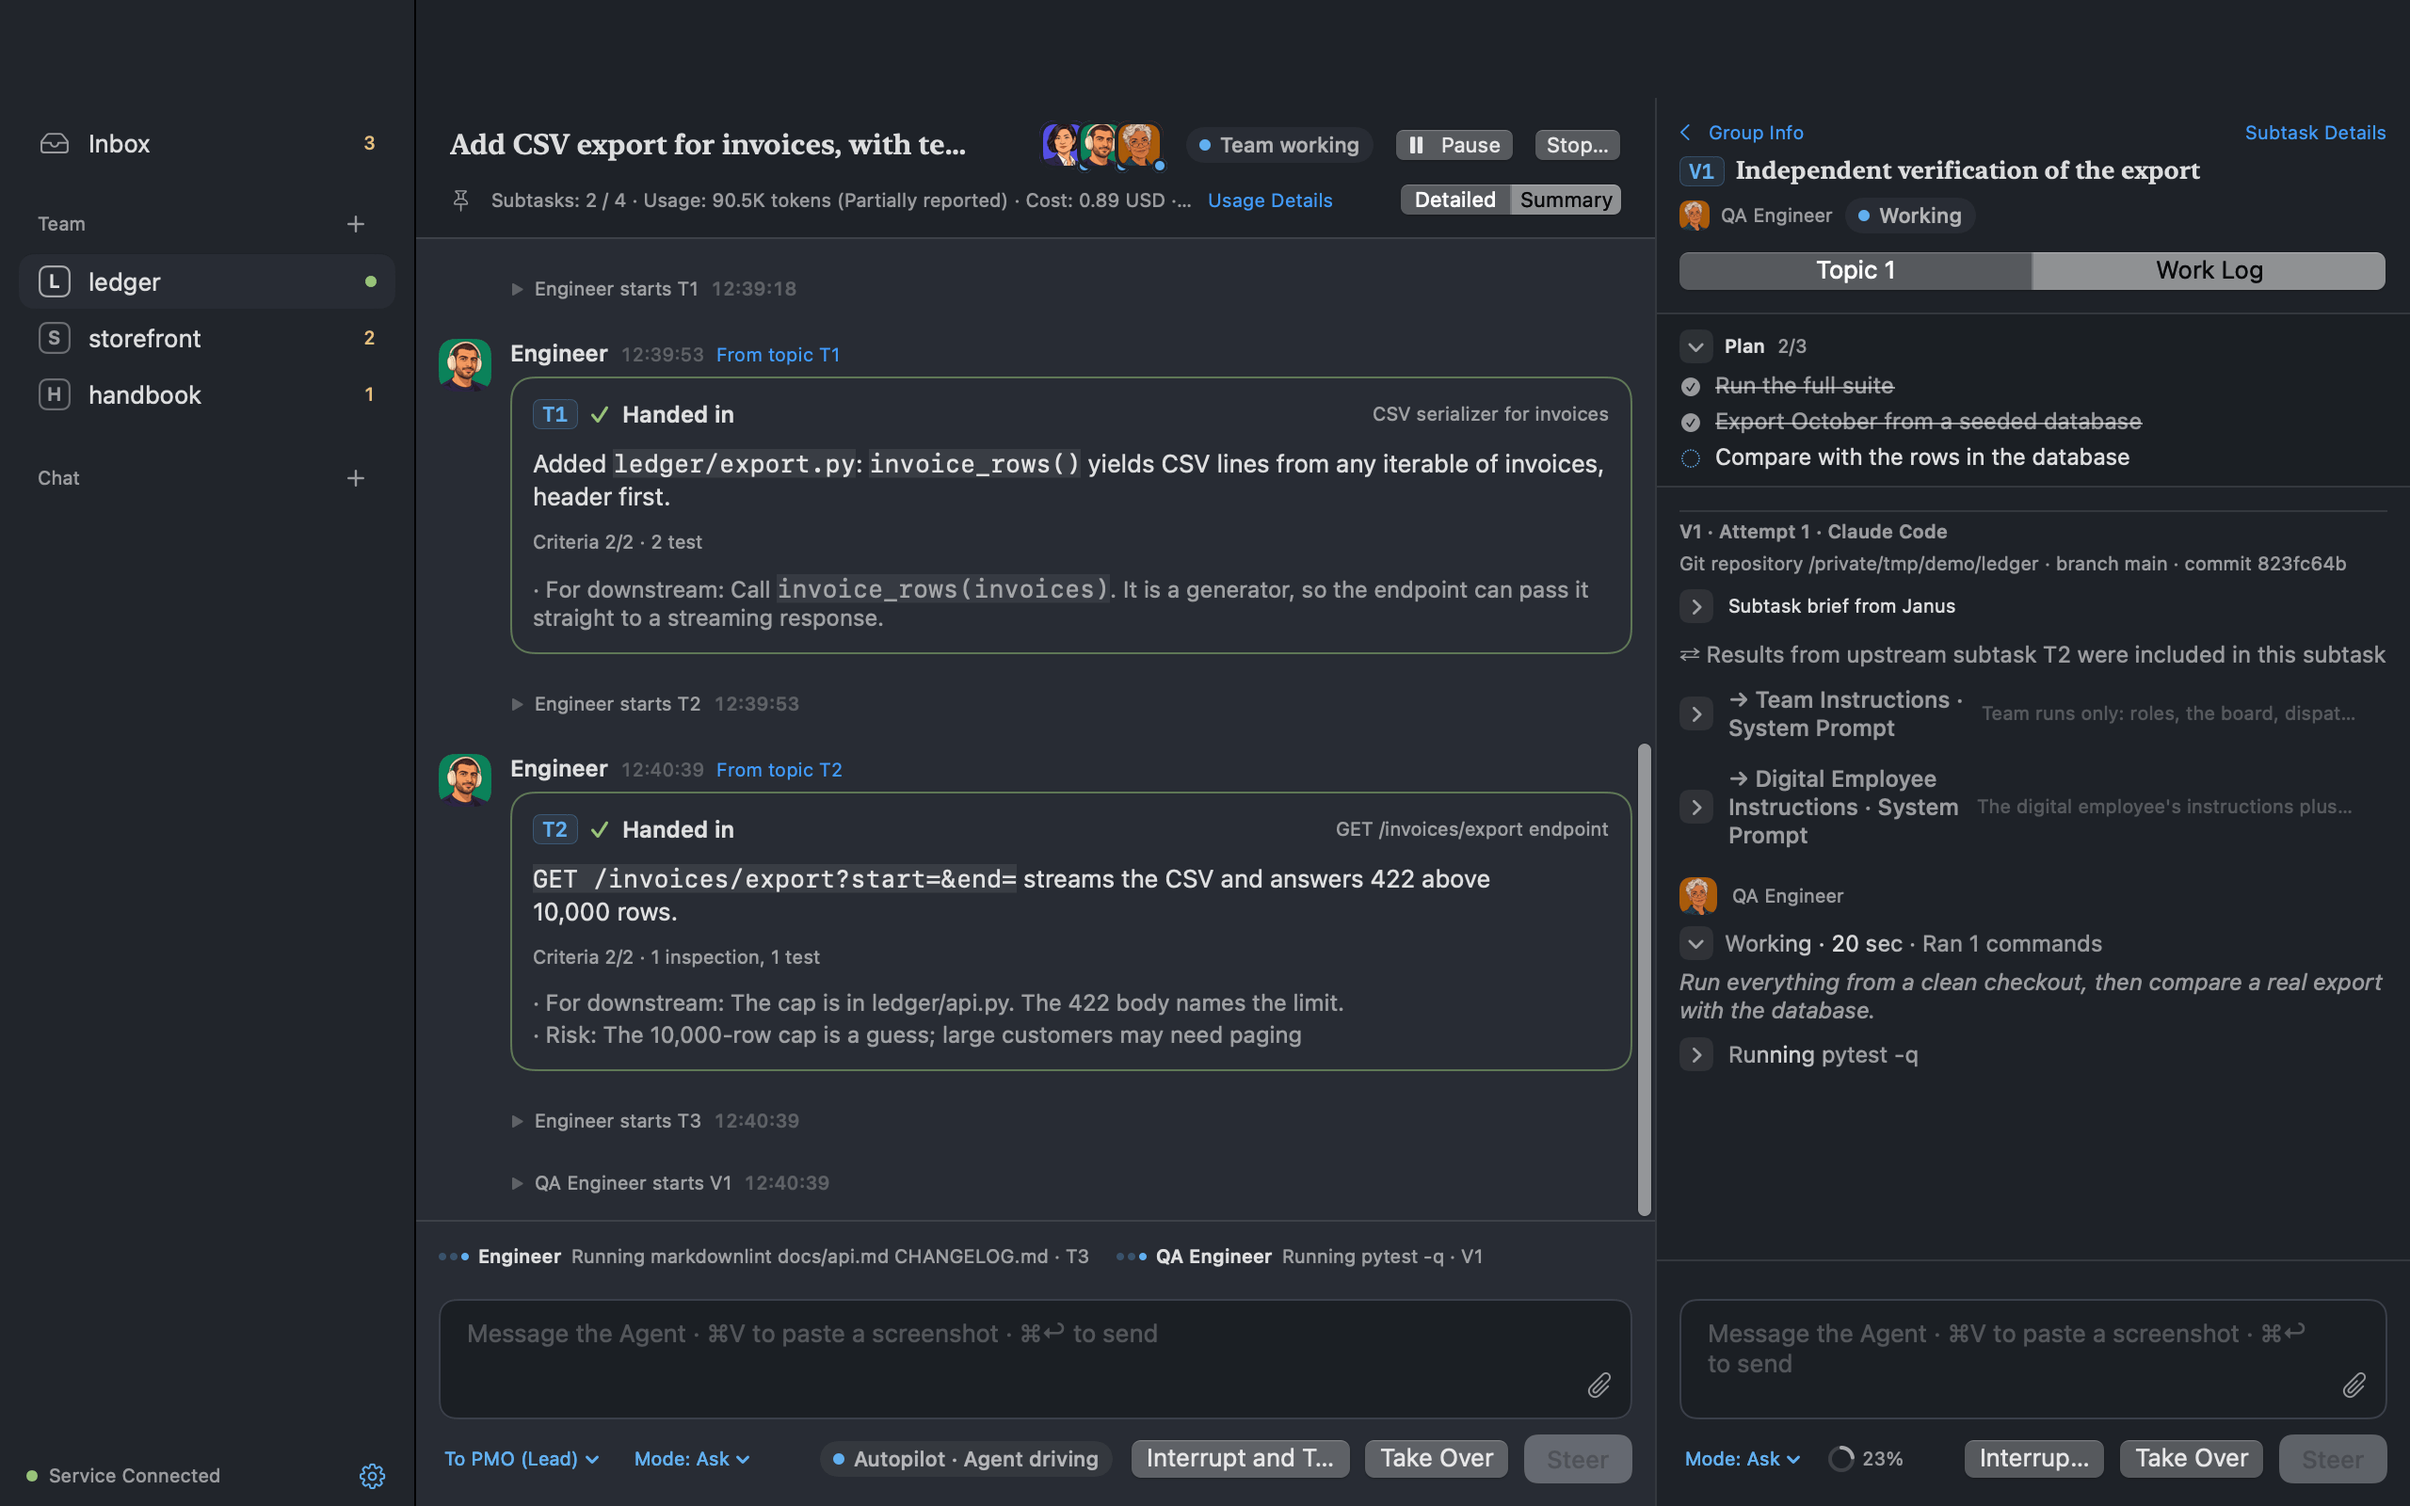
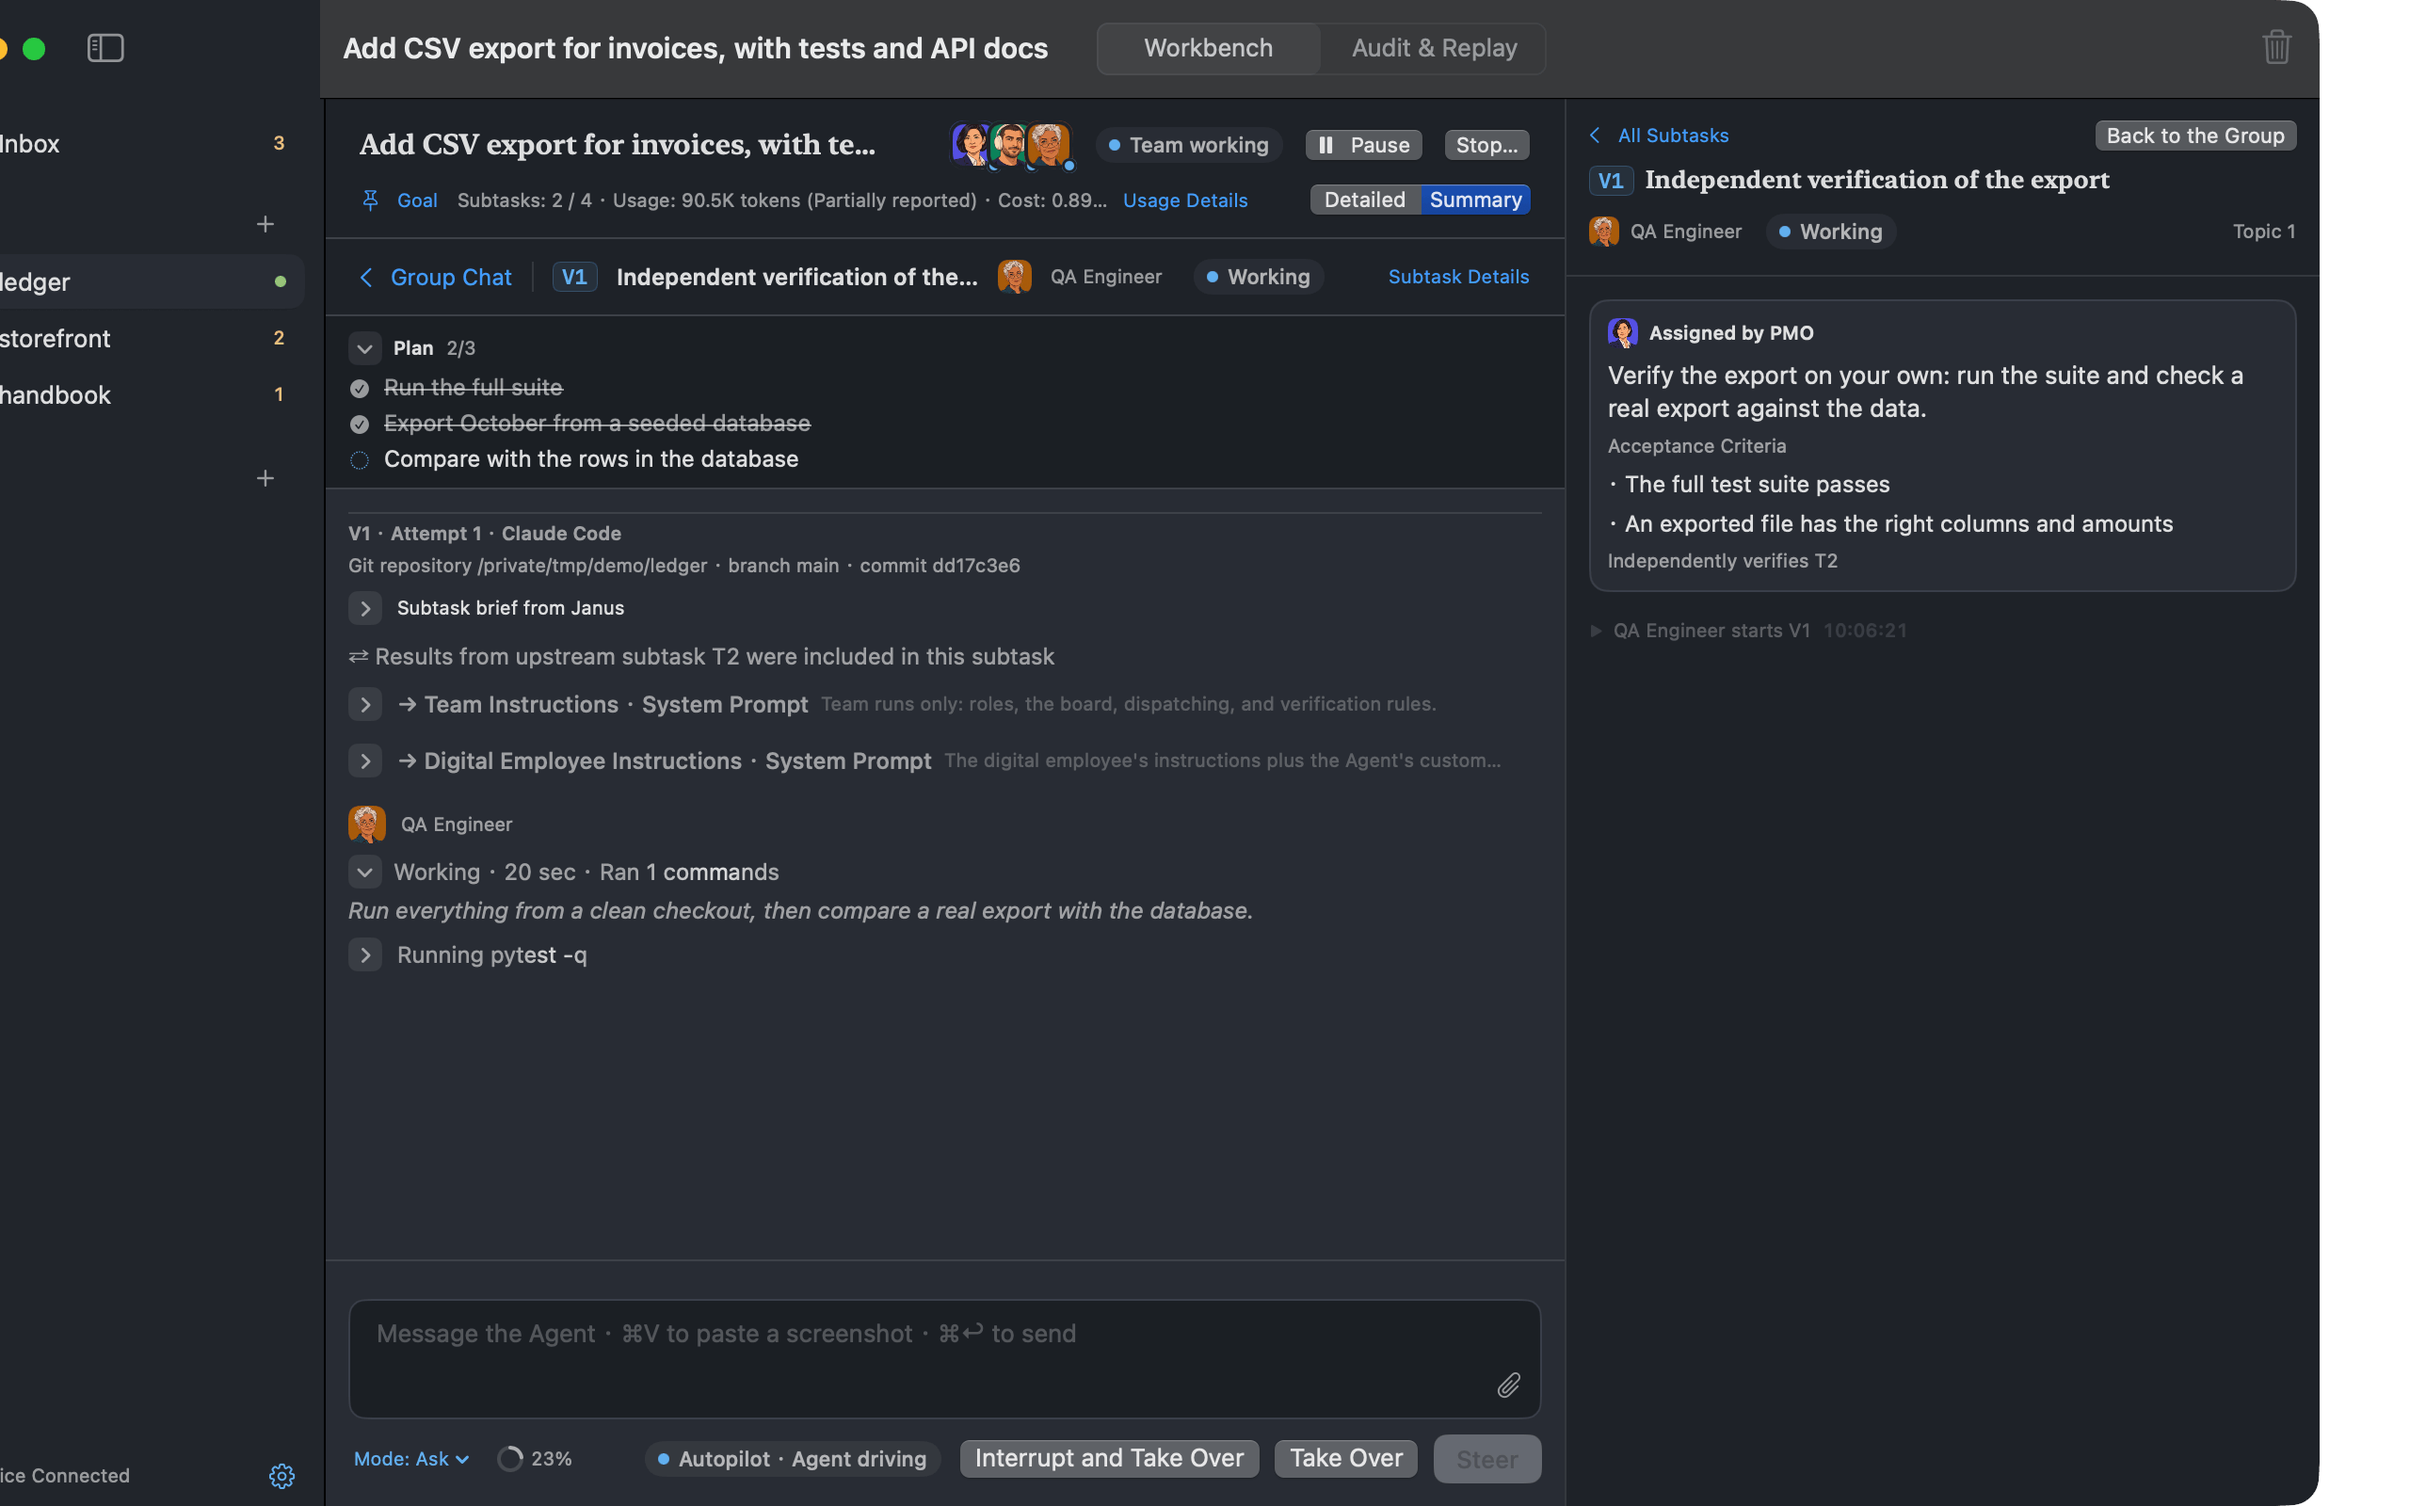
Retake the screenshots with the work log on the left
The session picture shows a collaborator's work log opened where the
group is, its topic beside it; the delivery picture goes back to the
group first. The script now stops when a capture of the window comes
back tiny (once 98×66) instead of publishing a broken picture.

diff --git a/e2e/screenshots.py b/e2e/screenshots.py
@@ -453,7 +453,7 @@ def stage(lang, server_bin, app_bin, node, raw):
         wait(lambda: done(main_run, "T2"), "T2 完成", 180)
         wait(lambda: {e.get("task") for e in events(main_run) if e["type"] == "tool.started"} >= {"T3", "V1"}, "T3 和 V1 在干活", 120)
         time.sleep(2)
-        shoot("session", f"open run:{main_run}", "page board", "side work:V1")
+        shoot("session", f"open run:{main_run}", "page board", "focus V1")
         fake.touch("hold-T3")
         fake.touch("hold-V1")
         wait(lambda: done(main_run, "T3", "V1"), "T3 和 V1 完成", 120)
@@ -467,7 +467,7 @@ def stage(lang, server_bin, app_bin, node, raw):
                 lead(made["run"], "dispatch", {"goal": t["dispatch"], "key": "github:acme/ledger#415", "source_url": "https://github.com/acme/ledger/issues/415"})
         time.sleep(3)
 
-        shoot("delivery", f"open run:{main_run}", "page board", "side tasks", "mention")
+        shoot("delivery", f"open run:{main_run}", "page board", "focus", "side tasks", "mention")
         shoot("workspace", "open home:ledger")
         shoot("inbox", "open inbox")
     finally:
@@ -481,6 +481,11 @@ def publish(raw, out, lang):
     for page in ("inbox", "delivery", "session", "workspace"):
         for look in ("light", "dark"):
             name = f"{page}-{lang}-{look}.png"
+            # A capture of the window that came back tiny (seen once: 98×66) would be published as
+            # a broken picture: stop instead, and take the pictures again.
+            size = subprocess.run(["magick", "identify", "-format", "%w", os.path.join(raw, name)], capture_output=True, text=True).stdout.strip()
+            if not size.isdigit() or int(size) < 1000:
+                raise Failure(f"{name} 只有 {size or '?'} 像素宽，窗口没有截下来；重跑 just screenshots")
             cmd = ["magick", os.path.join(raw, name), "-profile", SRGB]
             rows = CUT.get((page, lang))
             if rows:

diff --git a/README.md b/README.md
@@ -81,15 +81,15 @@ The delivery puts the lead agent's conclusion first, then counts what was run an
 
 The lead agent settles technical choices and trade-offs itself. Approvals, decisions the lead agent hands to you, and deliveries waiting for acceptance reach your inbox, from every workspace. Choices are answered in place, what nobody is blocked on can wait until later, and anything can be ignored.
 
-Each run is a group chat. How the lead agent hands out work, who starts what, what comes back, what gets reworked and what gets stuck all appear in the group as they happen; the back and forth between a collaborator and the lead agent stays in that subtask's topic. What needs you mentions you in the group, and you handle it there. You can open any collaborator's work log at any time to steer it or take over. It shows the agent's plan, its thinking, each tool call and how much of its context is used.
+Each run is a group chat. How the lead agent hands out work, who starts what, what comes back, what gets reworked and what gets stuck all appear in the group as they happen; the back and forth between a collaborator and the lead agent stays in that subtask's topic. What needs you mentions you in the group, and you handle it there. You can open any collaborator's work log full width at any time to steer it or take over. It shows the agent's plan, its thinking, each tool call and how much of its context is used.
 
 <p align="center">
   <picture>
     <source media="(prefers-color-scheme: dark)" srcset="docs/assets/screenshots/session-en-dark.png">
-    <img src="docs/assets/screenshots/session-en-light.png" width="880" alt="A run's group in Janus: the developer has handed in two subtasks, and the bottom of the group says who is running what; beside it, the work log of the QA engineer doing an independent verification, with its plan two thirds done, a test run in progress, and buttons to steer or take over">
+    <img src="docs/assets/screenshots/session-en-light.png" width="880" alt="A run in Janus with the QA engineer's work log open where the group was: its plan two thirds done, a test run in progress, and buttons to steer or take over; beside it, the subtask's topic with what the lead agent asked for and its acceptance criteria">
   </picture>
 </p>
-<p align="center"><sub>A run's group, with a collaborator agent's work log beside it: an independent verification at work. Steer it, or take over.</sub></p>
+<p align="center"><sub>A collaborator agent's work log, opened from its topic: an independent verification at work. Steer it, or take over.</sub></p>
 
 ### From a run to a Loop
 

diff --git a/README.zh-CN.md b/README.zh-CN.md
@@ -80,15 +80,15 @@ flowchart LR
 
 技术选型和取舍由负责人 Agent 自己定。审批、负责人 Agent 交给你的决定、等验收的交付，都从各个工作区汇总到收件箱。选择题直接在收件箱里回答，没有人在等的可以稍后再看，不想管的可以忽略。
 
-每个任务就是一个群。负责人怎样派活、谁开了工、交了什么、哪里返工、哪里卡住，都按时间出现在群里；组员和负责人之间的来回留在每个子任务的话题里，不在群里刷屏。等你处理的事在群里 @你，就地处理。你随时可以打开任何一名协作者的工作记录插话或接管，里面能看到它的计划、思考、每一次工具调用和上下文用了多少。
+每个任务就是一个群。负责人怎样派活、谁开了工、交了什么、哪里返工、哪里卡住，都按时间出现在群里；组员和负责人之间的来回留在每个子任务的话题里，不在群里刷屏。等你处理的事在群里 @你，就地处理。你随时可以把任何一名协作者的工作记录展开到整个页面，插话或接管，里面能看到它的计划、思考、每一次工具调用和上下文用了多少。
 
 <p align="center">
   <picture>
     <source media="(prefers-color-scheme: dark)" srcset="docs/assets/screenshots/session-zh-dark.png">
-    <img src="docs/assets/screenshots/session-zh-light.png" width="880" alt="Janus 里一个任务的群：研发工程师交了两个子任务的结果，群底部写着谁正在跑什么命令；右边打开了正在做独立验证的质量工程师的工作记录，计划完成了三分之二，测试正在运行，下方是插话和接管的按钮">
+    <img src="docs/assets/screenshots/session-zh-light.png" width="880" alt="Janus 里一个任务，质量工程师的工作记录展开在群的位置：计划完成了三分之二，测试正在运行，下方是插话和接管的按钮；右边是这个子任务的话题，写着负责人派的活和验收标准">
   </picture>
 </p>
-<p align="center"><sub>任务的群，右边是一名协作者 Agent 的工作记录：它正在做独立验证，可以插话，也可以接管。</sub></p>
+<p align="center"><sub>从话题展开一名协作者 Agent 的工作记录：它正在做独立验证，可以插话，也可以接管。</sub></p>
 
 ### 从任务到值班
 
